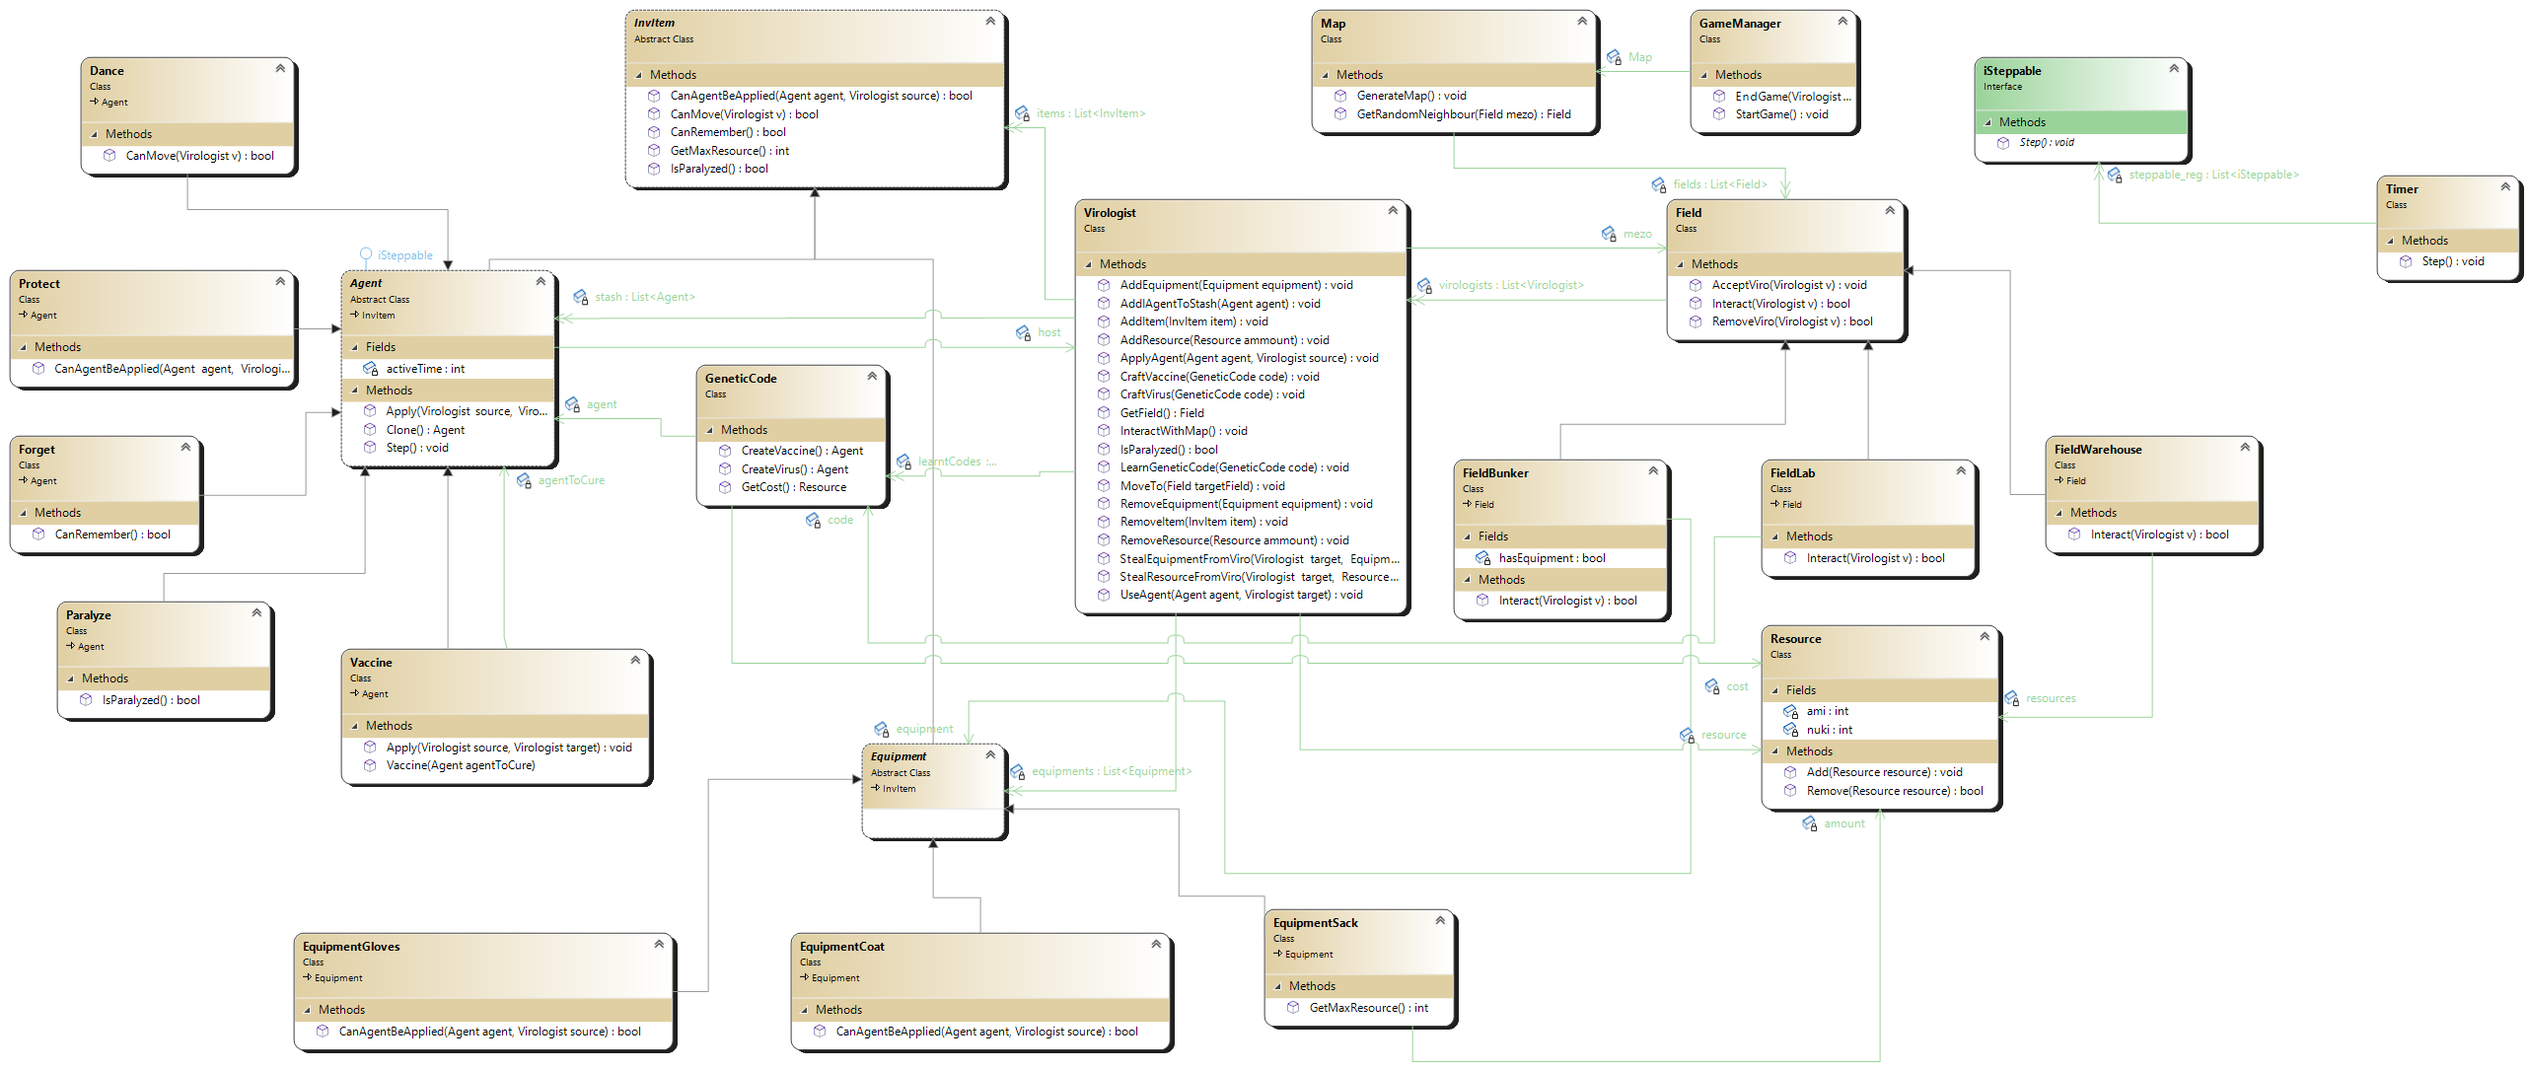
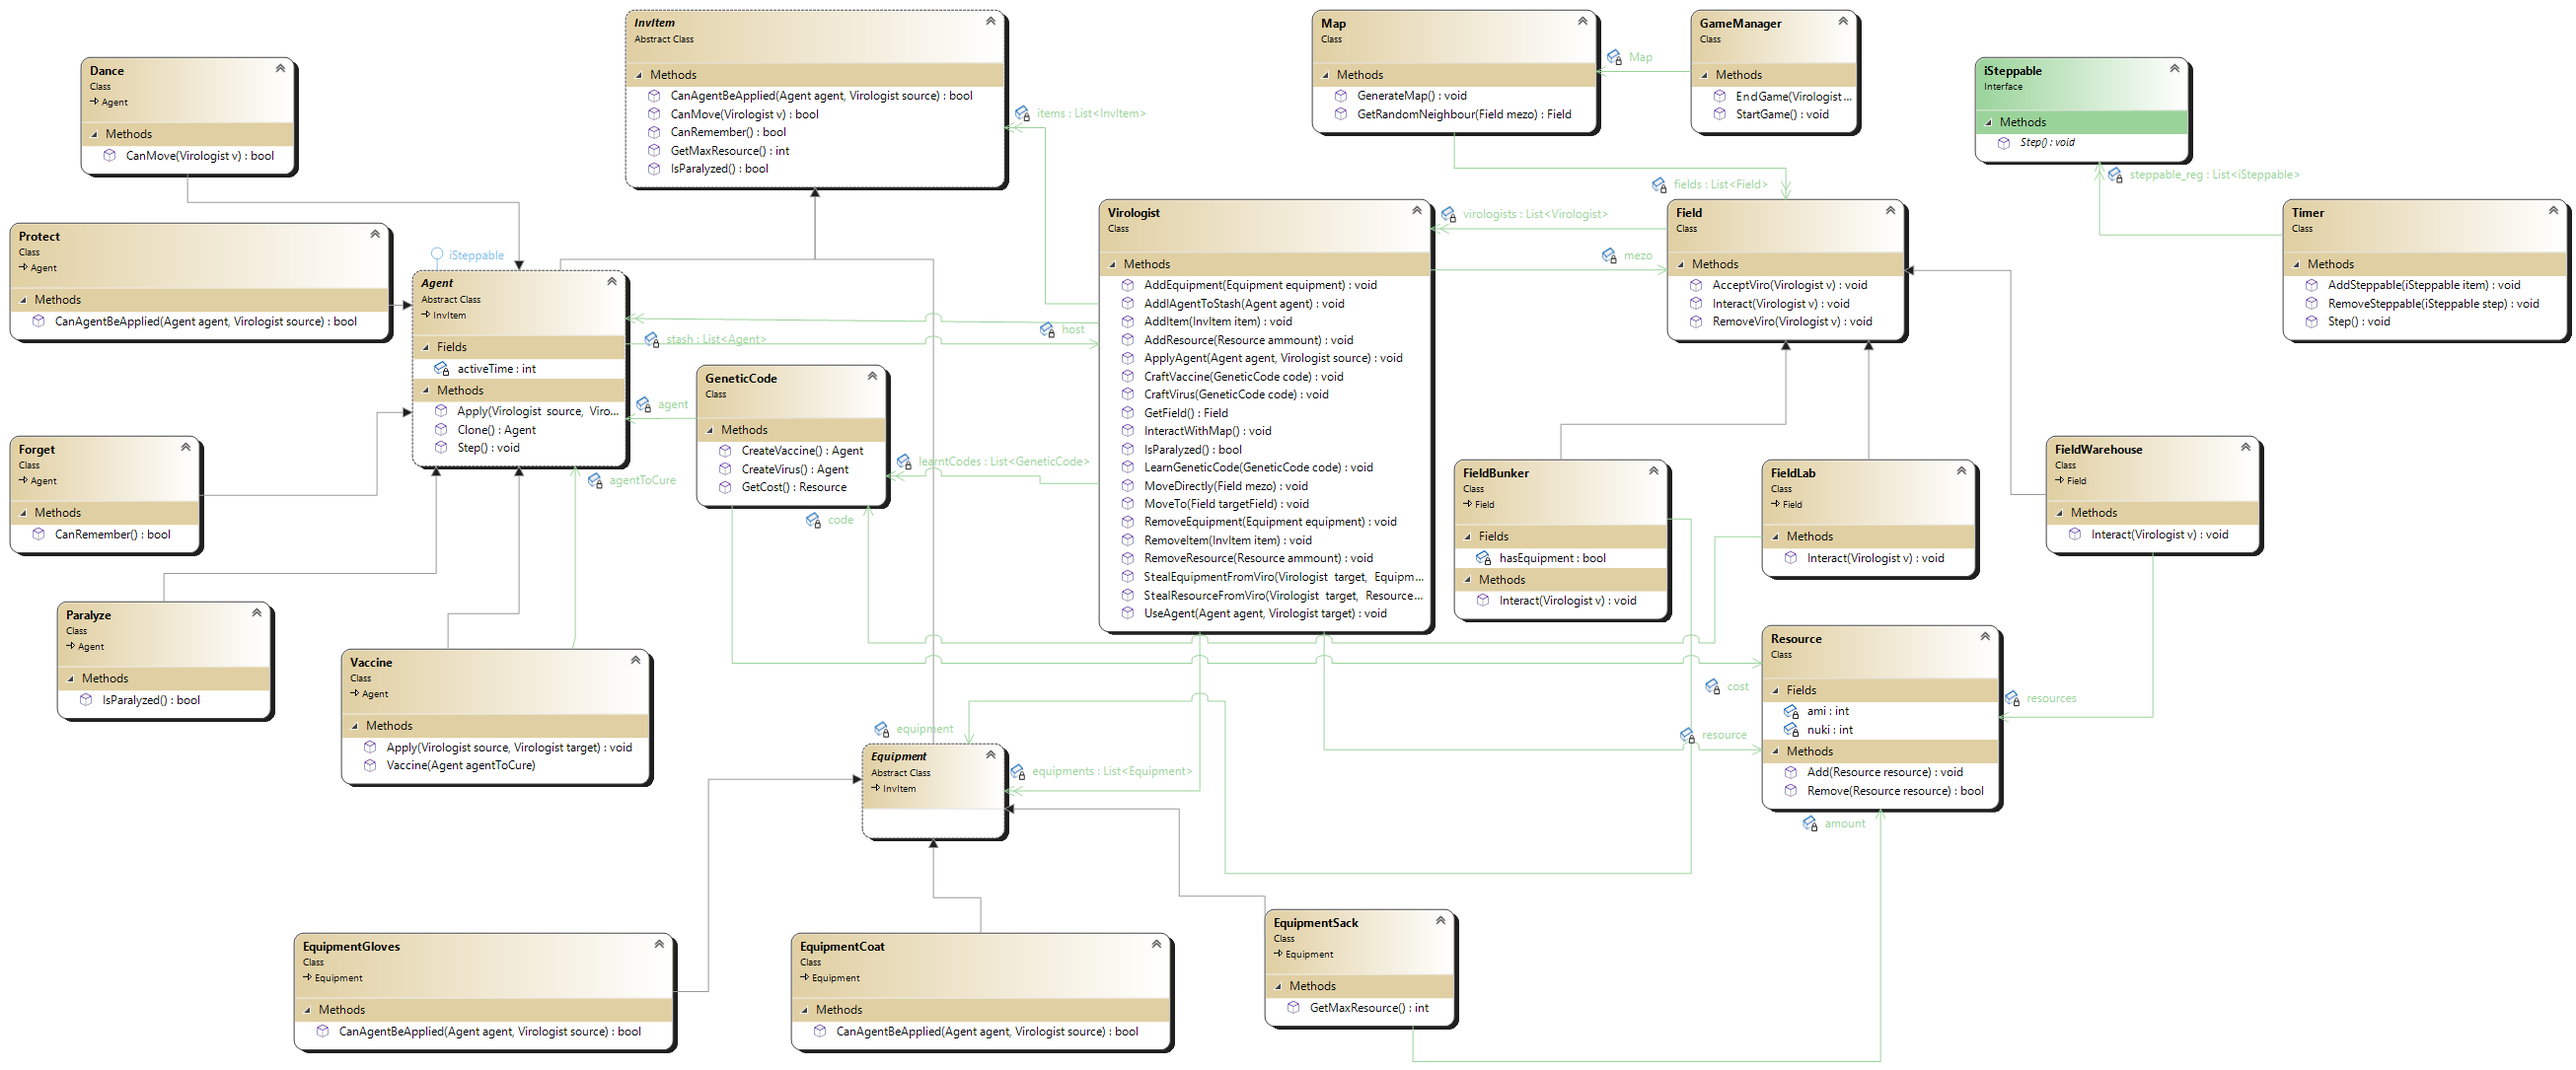
Modify

diff --git a/uml_gen/uml_generator/Program.cs b/uml_gen/uml_generator/Program.cs
@@ -108,6 +108,11 @@ namespace CatchThemAll
         {
             throw new System.NotImplementedException();
         }
+
+        public void MoveDirectly(Field mezo)
+        {
+            throw new System.NotImplementedException();
+        }
     }
     public class Map
     {
@@ -127,20 +132,20 @@ namespace CatchThemAll
     {
         List<Virologist> virologists;
         public void AcceptViro(Virologist v) { }
-        public virtual bool Interact(Virologist v) { return false; }
-        public virtual bool RemoveViro(Virologist v) { return false; }
+        public virtual void Interact(Virologist v) { return false; }
+        public virtual void RemoveViro(Virologist v) { return false; }
     }
     public class FieldLab : Field
     {
-        private GeneticCode code; public override bool Interact(Virologist v) { return true; }
+        private GeneticCode code; public override void Interact(Virologist v) { return true; }
     }
-    public class FieldWarehouse : Field { private Resource resources; public override bool Interact(Virologist v) { return true; } }
+    public class FieldWarehouse : Field { private Resource resources; public override void Interact(Virologist v) { return true; } }
     public class FieldBunker : Field
     {
         private Equipment equipment;
         private bool hasEquipment;
 
-        public override bool Interact(Virologist v) { return true; }
+        public override void Interact(Virologist v) { return true; }
     }
     public abstract class InvItem
     {
@@ -241,6 +246,16 @@ namespace CatchThemAll
         List<iSteppable> steppable_reg = new List<iSteppable>();
 
         public void Step()
+        {
+            throw new System.NotImplementedException();
+        }
+
+        public void AddSteppable(iSteppable item)
+        {
+            throw new System.NotImplementedException();
+        }
+
+        public void RemoveSteppable(iSteppable step)
         {
             throw new System.NotImplementedException();
         }
